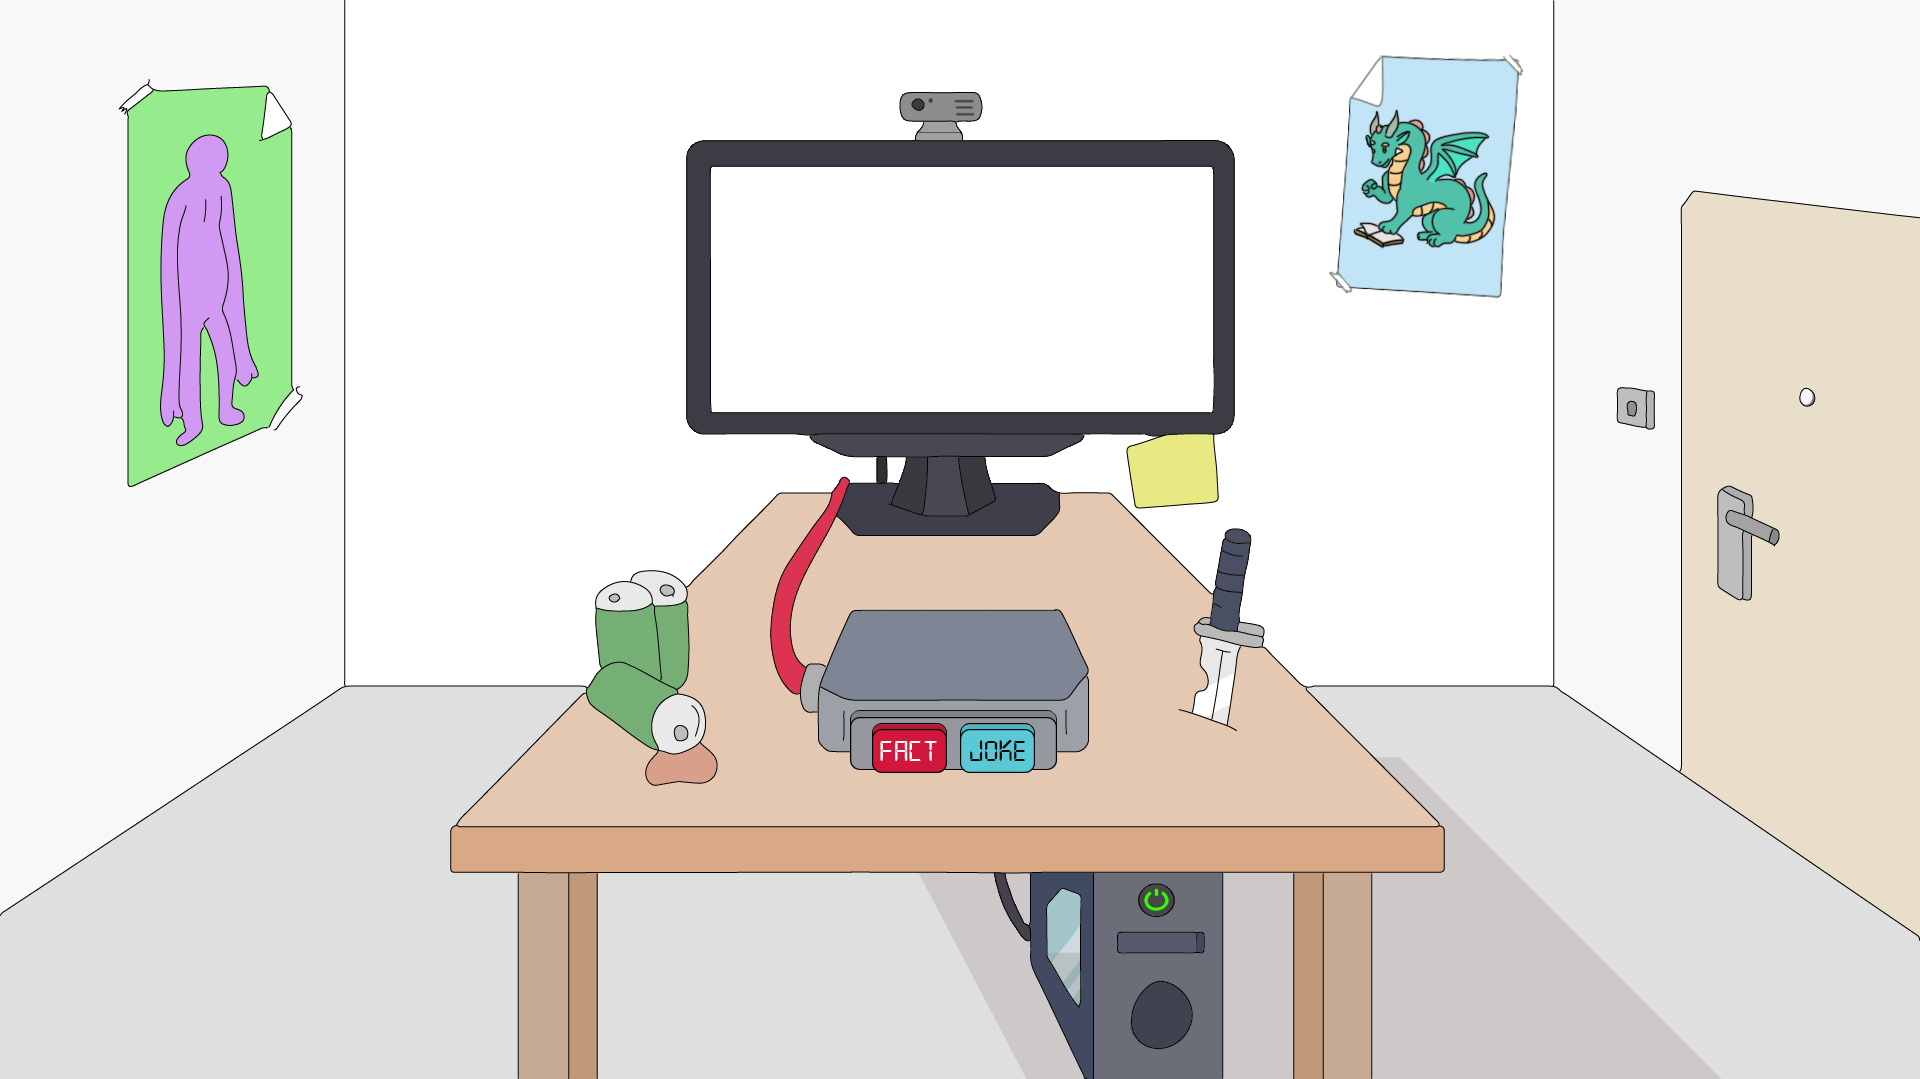
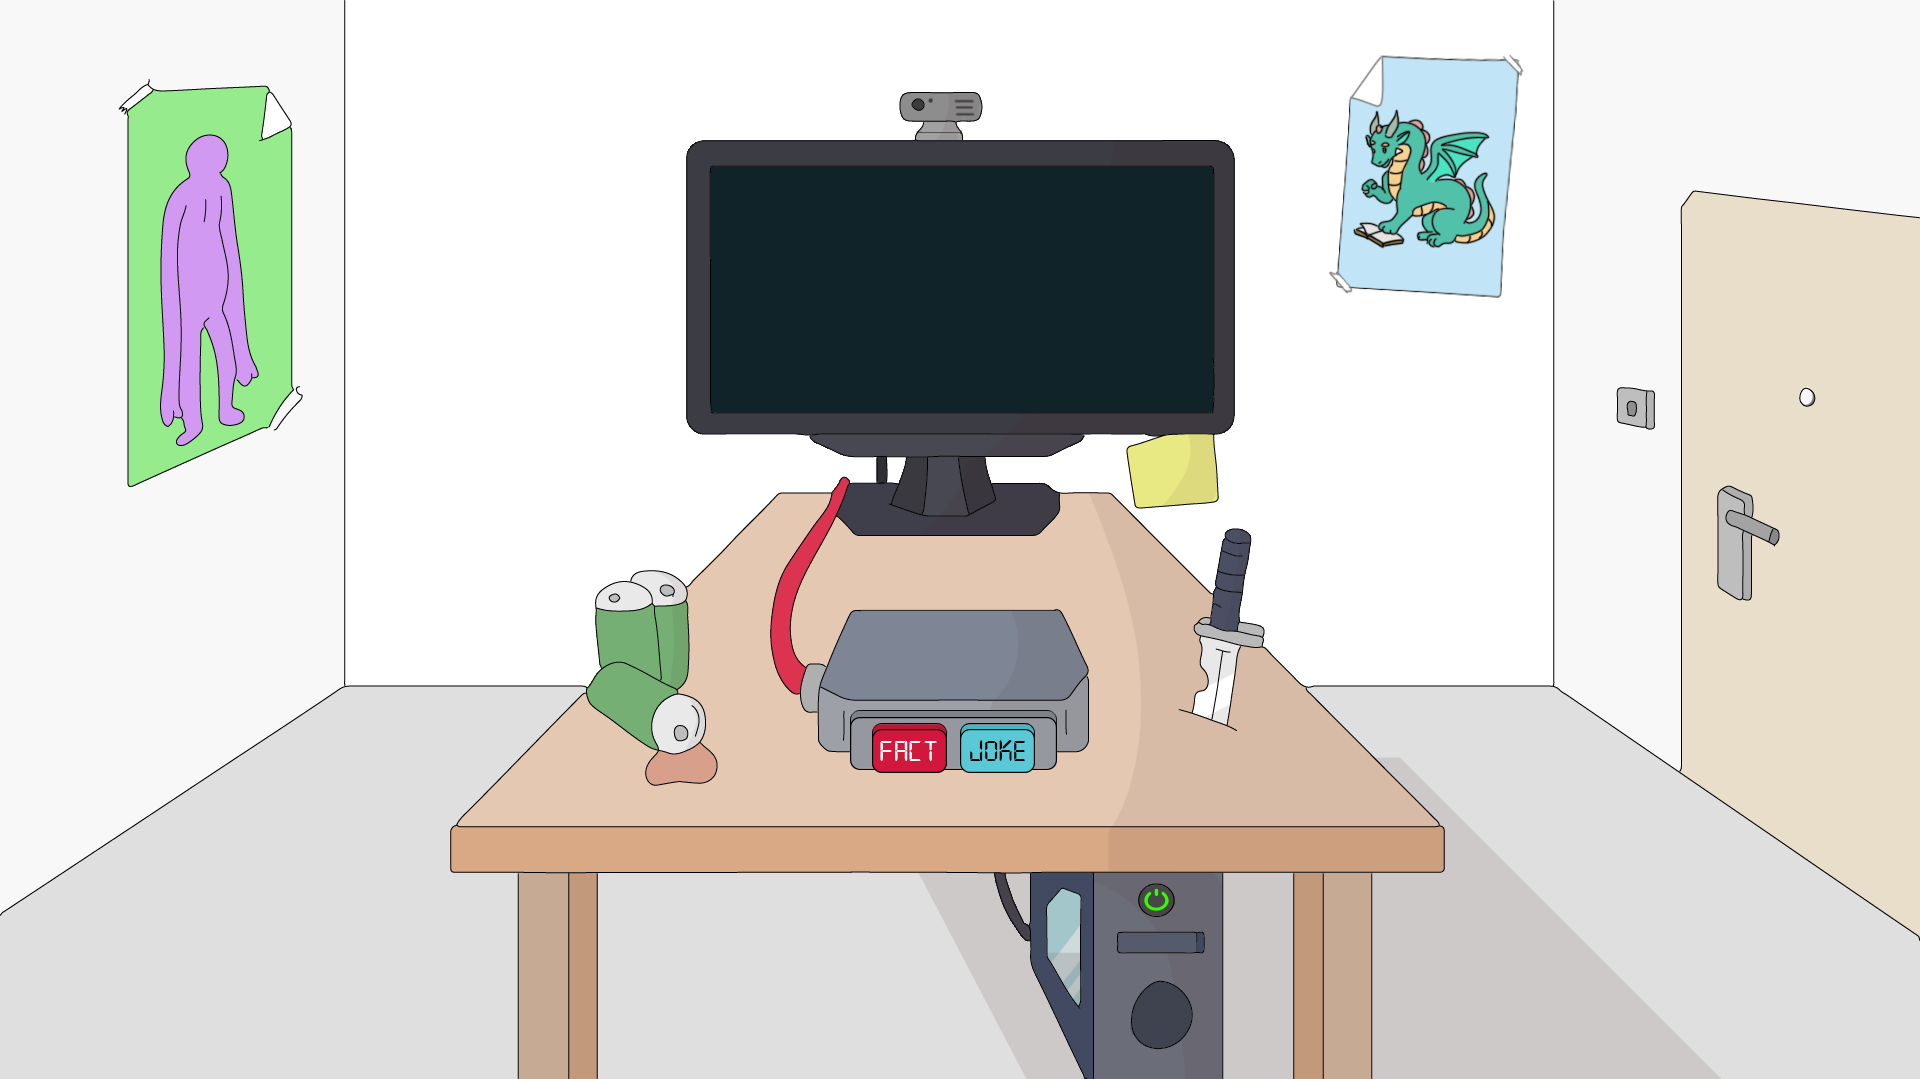
responsive update

Changed region(s): [[0.3438, 0.1529, 0.6562, 0.3976]]

diff --git a/spa/style.css b/spa/style.css
@@ -16,18 +16,21 @@ body {
 .routerbuttons {
   position: sticky;
   z-index: 5;
-  width: 12em;
-  height: 0em;
-  top: 48em;
+  width: 17vh;
+  height: 0;
+  top: 66vh;
   margin: 0 auto;
   display: flex;
   flex-direction: row;
   justify-content: space-between;
+
+
 }
 
 .routerbuttons > a {
-  width: 6em;
-  height: 5em;
+  width: 8vh;
+  height: 6vh;
+
 }
 
 H2 {
@@ -52,13 +55,14 @@ H2 {
   opacity: 0;
   color: black;
   position: absolute;
-  margin-top: 10.7em;
-  padding: 2em;
-  width: 35em;
-  height: 18em;
+  /* margin-top: 10.7em; */
+  top: 16cqh;
+  padding: 1em;
+  /* width: 40cqw; */
+  height: 23%;
+  aspect-ratio: 16 / 8;
   border-radius: 0.5em;
   object-fit: cover;
-  text-align: center;
   background-color: rgb(0, 194, 242);
 }
 
@@ -69,29 +73,31 @@ H2 {
 
 #bootscreen.off {
   transition: all 1s;
-  background-color: black;
+  color:  rgb(16, 35, 40);
+  background-color: rgb(16, 35, 40);
 }
 
 .quotescreen {
   position: absolute;
-  margin-top: 10.7em;
-  padding: 2em;
-  width: 35em;
-  height: 18em;
+  /* margin-top: 10.7em; */
+  top: 16cqh;
+  padding: 1em;
+  /* width: 40cqw; */
+  height: 23%;
+  aspect-ratio: 16 / 8;
   border-radius: 0.5em;
   object-fit: cover;
   background-color: rgb(16, 35, 40);
-  max-lines: 6;
-
+  max-lines: 7;
 }
 
 .quotescreen>#fact {
   overflow: hidden;
-
+font-size: 2.05vh;
   margin-top: 0;
   filter: drop-shadow(0px 1px 5px rgba(127, 255, 124, 0.348));
   text-overflow: ellipsis;
-  height: 100%;
+
 
   animation: typing 0.5s steps(40) forwards;
 
@@ -119,12 +125,13 @@ H2 {
   cursor: pointer;
   font-weight: bold;
   color: white;
-  margin-top: 39em;
-  width: 12em;
+  margin-top: 52vh;
+  width: 18vh;
   height: auto;
   position: relative;
   border: none;
   transition: all 0.05s;
+  
 }
 
 #nextfact:active {
@@ -135,8 +142,8 @@ H2 {
   cursor: pointer;
   font-weight: bold;
   color: white;
-  margin-top: 39em;
-  width: 12em;
+  margin-top: 52vh;
+  width: 18vh;
   height: auto;
   position: relative;
   border: none;
@@ -150,9 +157,10 @@ H2 {
 #postit {
   cursor: pointer;
   position: fixed;
-  top: 41%;
-  margin-left: 18.5em;
-  width: 4em;
+  top: 42vh;
+  margin-left: 26vh;
+  width: 6vh;
+font-size: 1.3vh;
   font-weight: bold;
   color: black;
   transform: rotate(-5deg)
@@ -160,9 +168,10 @@ H2 {
 
 #camerabutton {
   position: fixed;
-  margin: 5em;
-  height: 5em;
-  width: 10em;
+ margin-top: 8vh;
+ width: 8em;
+  height: 10vh;
+  
 
 }
 
@@ -183,11 +192,12 @@ H2 {
 
 #lightswitch {
   cursor: pointer;
-  width: 5em;
-  height: 5em;
+  width: 5%;
+  height: 5%;
   position: fixed;
-  top: 35%;
-  margin-left: 93em;
+  margin-top: 35vh;
+  margin-left: 125vh;
+ 
 }
 
 #darkness {

diff --git a/spa/js/interactions.js b/spa/js/interactions.js
@@ -7,7 +7,7 @@ const postext = document.getElementById("postit");
 function face(quotes) {
     quotes.innerText = ". . . . .╭━━━━━━╮      . .  . . . . . .   " + ". . .╭┃   . .  ╭━━━━╮. . . . . ." + "  . . . .┃┃  . .  ╰━━━━╯. . . .  " + ". . . . . .┃┃ . . . . . ┃ . <-you  . . ." + " . . . .╰┃    . ┃ ─┌     . ┃ . . . . ." + "  . . . . . . .╰━╯  .  ╰━╯"
   
-    console.log("hiii")
+
 }
 //doet de beeldscherm uit
 function turnOff() {
@@ -25,9 +25,9 @@ function turnOff() {
     darkness.classList.toggle("active");
     if (darkness.classList.contains('active')) {
   
-      document.getElementById("bgimage").src = "images/pcdarkness.png";
+      document.getElementById("bgimage").src = "./images/pcdarkness.png";
     } else {
-      document.getElementById("bgimage").src = "images/pc.png";
+      document.getElementById("bgimage").src = "./images/pc.png";
     }
 }
 

diff --git a/spa/index.html b/spa/index.html
@@ -18,5 +18,5 @@
     <div id="content"></div>
 </body>
 
-<script src="/router.js" async defer type="module"></script>
+<script src="./router.js" async defer type="module"></script>
 </html>
